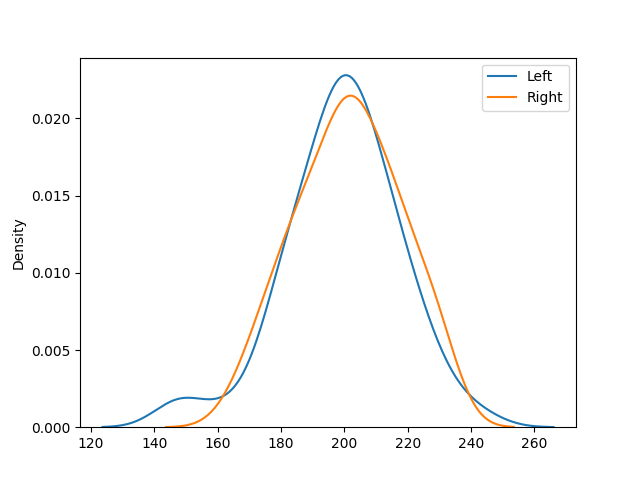
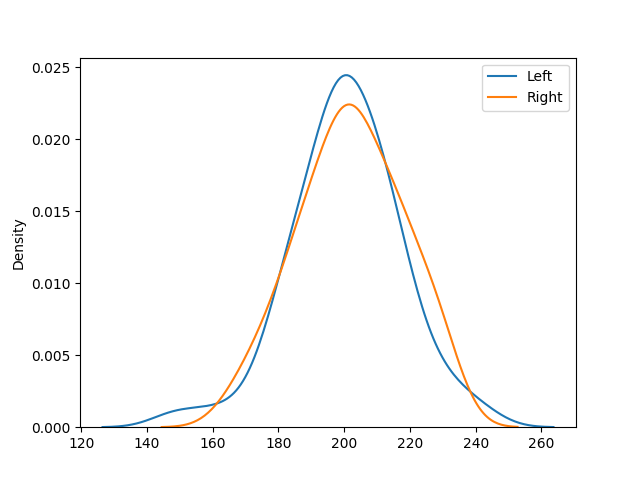
Take averages over multiple images from same camera

diff --git a/analyze_sharpness.py b/analyze_sharpness.py
@@ -5,6 +5,7 @@ import cv2
 import matplotlib.pyplot as plt
 import numpy as np
 import seaborn as sns
+import statistics
 
 def variance_of_laplacian(image):
 	# compute the Laplacian of the image and then return the focus
@@ -16,8 +17,8 @@ def findHoles(img, minArea = 10):
     # Set up the SimpleBlobdetector with default parameters.
     params = cv2.SimpleBlobDetector_Params()
     # Change thresholds
-    params.minThreshold = 10;
-    params.maxThreshold = 200;
+    params.minThreshold = 10
+    params.maxThreshold = 200
     # Filter by Area
     params.filterByArea = True
     params.minArea = minArea
@@ -43,10 +44,14 @@ def main():
         help="focus measures that fall below this value will be considered 'blurry'")
     args = vars(ap.parse_args())
 
-    blur_array= []
-    blur_array_right= []
+    blur_array_left = []
+    blur_array_left_av = []
+    
+    blur_array_right = []
+    blur_array_right_av = []
     labels= []
     show_images = True
+    i = 0
 
     for image_path in paths.list_images(args["images"]):
         # load the image, convert it to grayscale, and compute the
@@ -54,34 +59,39 @@ def main():
         # method
         # print(image_path)
         image_path_split = image_path.split('\\')
-        if not (image_path_split[9] == 'Assembled' and image_path_split[10] == 'dome_focus' and '000.png' in image_path_split[11]):
+        if not (image_path_split[9] == 'Assembled' and image_path_split[10] == 'dome_focus'):
             continue
         
         label = image_path.split('\\')[8].split('FFFF0000')[1]
-        print(label)
-        
-        labels.append(label)
+        if label not in labels:
+            print(label)
+            labels.append(label)
+            if i != 0:
+                blur_array_left_av.append(statistics.fmean(blur_array_left))
+                blur_array_right_av.append(statistics.fmean(blur_array_right))
+            blur_array_left = []
+            blur_array_right = []
+            i += 1
+            
         image = cv2.imread(image_path)
         
         # Replace embedded line (final row) with penultimate row as it 
         # has very strong gradients that throw the laplacian
         image[-1, :] = image[-2, :] 
-        radius2 = 150
         height = image.shape[0]
-        width = image.shape[1] // 2
-        xc = height // 2
-        yc = width // 2
-        
+        width = image.shape[1] // 2        
         
         left = image[:, :width]
         left_gray = cv2.cvtColor(left, cv2.COLOR_BGR2GRAY)
         left_fm = variance_of_laplacian(left_gray)
         left_gray_holes = findHoles(left_gray)
+        blur_array_left.append(left_fm)
         
         right = image[:, width:]
         right_gray = cv2.cvtColor(right, cv2.COLOR_BGR2GRAY)
         right_fm = variance_of_laplacian(right_gray)
         right_gray_holes = findHoles(right_gray)
+        blur_array_right.append(right_fm)
         
         # if the focus measure is less than the supplied threshold,
         # then the image should be considered "blurry"
@@ -91,27 +101,28 @@ def main():
         if show_images:
             cv2.putText(left_gray, "LapVar: {:.2f}".format(left_fm), (10, 30),
             cv2.FONT_HERSHEY_SIMPLEX, 0.8, 255, 3)
-            cv2.putText(left_gray, "Holes: {0}".format(len(left_gray_holes)), (350, 30),
-            cv2.FONT_HERSHEY_SIMPLEX, 0.8, 255, 3)
+            # cv2.putText(left_gray, "Holes: {0}".format(len(left_gray_holes)), (350, 30),
+            # cv2.FONT_HERSHEY_SIMPLEX, 0.8, 255, 3)
             cv2.imshow("left", left_gray)
             
             cv2.putText(right_gray, "LapVar: {:.2f}".format(right_fm), (10, 30),
             cv2.FONT_HERSHEY_SIMPLEX, 0.8, 255, 3)
-            cv2.putText(right_gray, "Holes: {0}".format(len(right_gray_holes)), (350, 30),
-            cv2.FONT_HERSHEY_SIMPLEX, 0.8, 255, 3)
+            # cv2.putText(right_gray, "Holes: {0}".format(len(right_gray_holes)), (350, 30),
+            # cv2.FONT_HERSHEY_SIMPLEX, 0.8, 255, 3)
             cv2.imshow("right", right_gray)
             
             key = cv2.waitKey(0)
             if key == 27:
                 cv2.destroyAllWindows()
-                show_images = False
-        
-        blur_array.append(left_fm)
-        blur_array_right.append(right_fm)
+                show_images = False      
+            
         print(left_fm)
         print(right_fm)
         
-    x_scatter = np.linspace(1, len(blur_array), len(blur_array))
+    blur_array_left_av.append(statistics.fmean(blur_array_left))
+    blur_array_right_av.append(statistics.fmean(blur_array_right))
+        
+    x_scatter = np.linspace(1, len(blur_array_left_av), len(blur_array_left_av))
 
     fig, ax = plt.subplots(1, 1, figsize=(10,9))
     plt.xlabel('Sensor')
@@ -119,16 +130,16 @@ def main():
     plt.title('Sensor focus level')
     plt.xticks(x_scatter, labels)
     plt.xticks(rotation=90)
-    ax.scatter(x_scatter, blur_array, s=8, label= "Left")
-    ax.scatter(x_scatter, blur_array_right, s=8, label="Right")
+    ax.scatter(x_scatter, blur_array_left_av, s=8, label= "Left")
+    ax.scatter(x_scatter, blur_array_right_av, s=8, label="Right")
     ax.legend()
     ax.grid(True)
     fig.savefig("plots/scatter.png")
     
     
     fig1, ax1 = plt.subplots()
-    sns.kdeplot(data=blur_array, ax=ax1, label="Left")
-    sns.kdeplot(data=blur_array_right, ax=ax1, label="Right")
+    sns.kdeplot(data=blur_array_left_av, ax=ax1, label="Left")
+    sns.kdeplot(data=blur_array_right_av, ax=ax1, label="Right")
     ax1.legend()
     fig1.savefig("plots/distribution.png")
     plt.show()
